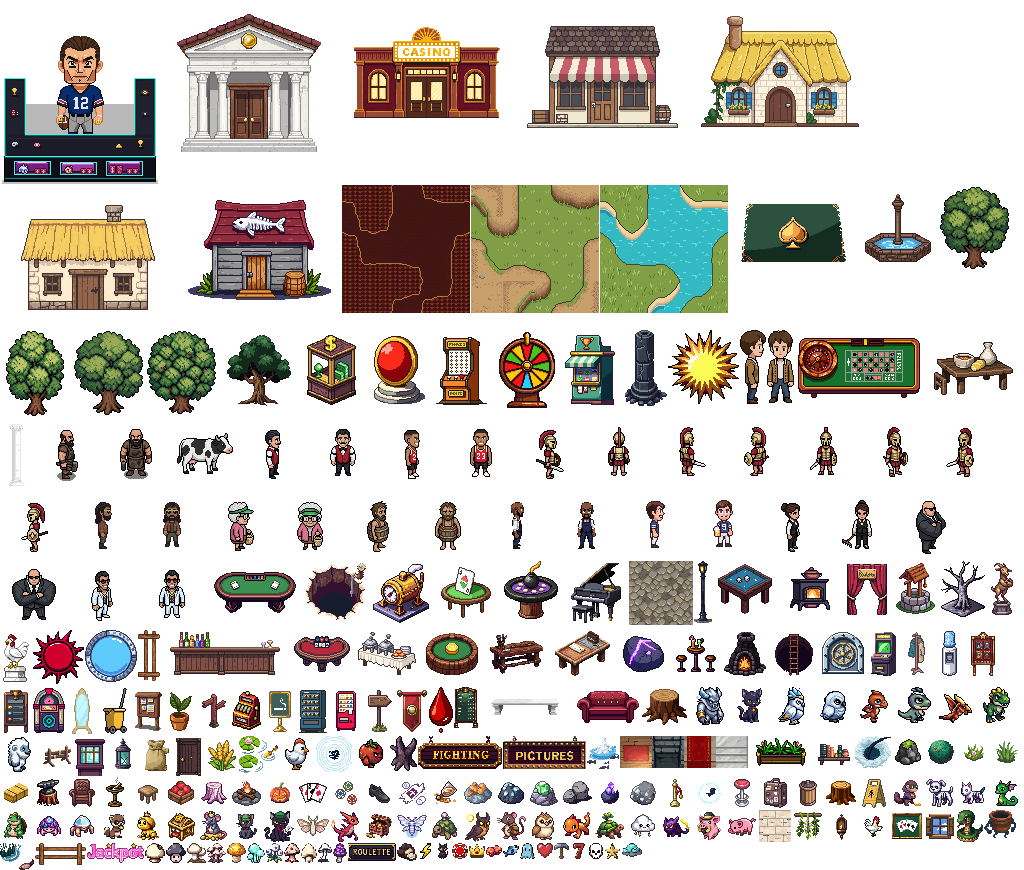
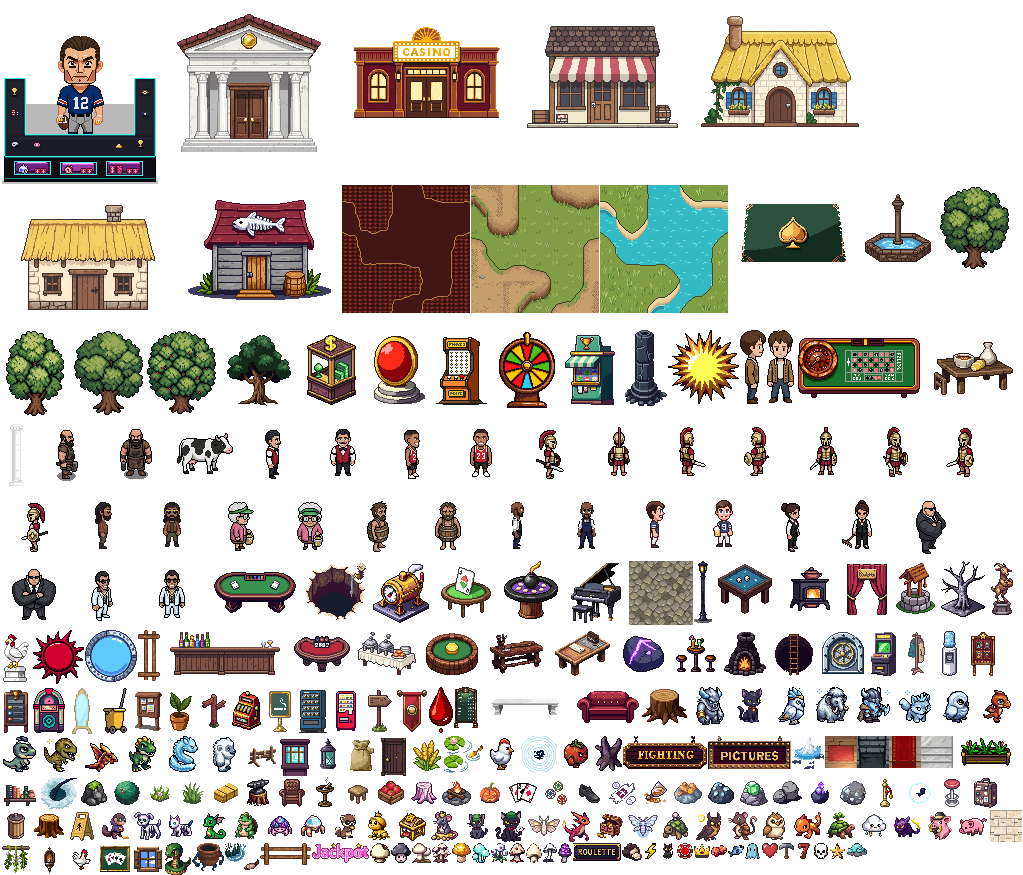
EastScape: the five boss pets' art (Rexling, Matriarch's Calf, Jarl's Hound, Wyrmling, Ice Imp)

diff --git a/eastscape.html b/eastscape.html
@@ -2613,7 +2613,7 @@ const ART_VER = { foundry_bg1: 5, foundry_bg2: 5,   /* (2026-09-27) the Foundry 
    because a crop added to CROPS should ask for its art without anybody remembering to type four more names —
    the content check then fails until that art exists, which is the right way round. */
 const CROP_ART = [...new Set(Object.keys(G.CROPS).map((k) => G.cropArt(k)))].flatMap((k) => [1, 2, 3, 4].map((n) => `crop_${k}_${n}`));   /* (2026-09-26) a seed crop draws its bloom's pictures */
-const ART_FILES = ["snowowl", "snowowl_i2", "snowowl_w1", "snowowl_w2", "snowowl_w3", "snowowl_w4", "snowowl_a1", "snowowl_a2", "snowowl_a3", "snowowl_a4", "frostwraith", "frostwraith_i2", "frostwraith_w1", "frostwraith_w2", "frostwraith_w3", "frostwraith_w4", "frostwraith_a1", "frostwraith_a2", "frostwraith_a3", "frostwraith_a4", "iceelemental", "iceelemental_i2", "iceelemental_w1", "iceelemental_w2", "iceelemental_w3", "iceelemental_w4", "iceelemental_a1", "iceelemental_a2", "iceelemental_a3", "iceelemental_a4", "frostjarl", "frostjarl_i2", "frostjarl_w1", "frostjarl_w2", "frostjarl_w3", "frostjarl_w4", "frostjarl_a1", "frostjarl_a2", "frostjarl_a3", "frostjarl_a4", "icewyrm", "icewyrm_i2", "icewyrm_w1", "icewyrm_w2", "icewyrm_w3", "icewyrm_w4", "icewyrm_a1", "icewyrm_a2", "icewyrm_a3", "icewyrm_a4",   /* (2026-09-30) the Frozen Reach's creatures (held) */ "pet_owlet", "pet_yeticub", "pet_blizzardowl", "pet_abominable",   /* its pets ride core */ "o_frostpine", "o_frostpine_stump", "o_rock_glacite",   /* (2026-09-30) the Frozen Reach's nodes (held) */ "raidchief", "raidchief_i2", "raidchief_w1", "raidchief_w2", "raidchief_w3", "raidchief_w4", "raidchief_a1", "raidchief_a2", "raidchief_a3", "raidchief_a4",   /* (2026-09-30) the Ice Man */ "frostwolf", "frostwolf_i2", "frostwolf_w1", "frostwolf_w2", "frostwolf_w3", "frostwolf_w4", "frostwolf_a1", "frostwolf_a2", "frostwolf_a3", "frostwolf_a4", "yeti", "yeti_i2", "yeti_w1", "yeti_w2", "yeti_w3", "yeti_w4", "yeti_a1", "yeti_a2", "yeti_a3", "yeti_a4", "frostgiant", "frostgiant_i2", "frostgiant_w1", "frostgiant_w2", "frostgiant_w3", "frostgiant_w4", "frostgiant_a1", "frostgiant_a2", "frostgiant_a3", "frostgiant_a4",   /* (2026-09-30) the Yard raid's raiders (the Frozen Reach's creatures); the Ice Man joins when drawn */ "fz_cliff_10x7", "fz_cliff_5x7", "fz_cliff_6x8", "fz_cliff_7x7", "fz_cliff_8x7", "fz_crystal1", "fz_crystal2", "fz_crystal3", "fz_floe1", "fz_floe2", "fz_floe3", "fz_floe4", "fz_pine1", "fz_pine2", "fz_rock1", "fz_rock2", "fz_statue", "t_iwater", "t_snow",   /* (2026-09-30) the Frozen Reach (held): shelves, floes, props, its snow ground; each map loads only its own */ "pv_bone1", "pv_bone2", "pv_cliff_10x7", "pv_cliff_5x7", "pv_cliff_6x7", "pv_cliff_6x8", "pv_cliff_7x7", "pv_cliff_8x7", "pv_cliff_9x7", "pv_crystal", "pv_fern1", "pv_fern2", "pv_fern3", "pv_lavarock", "pv_palm1", "pv_palm2", "pv_skeleton", "pv_skull", "pv_tarhole1", "pv_tarhole2", "pv_tent_green", "pv_tent_red", "pv_throne", "pv_totem", "pv_tusk_l", "pv_tusk_r", "pv_vent1", "pv_vent2", "pv_volcano", "caveman", "caveman_i2", "caveman_w1", "caveman_w2", "caveman_w3", "caveman_w4", "caveman_a1", "caveman_a2", "caveman_a3", "caveman_a4", "mammoth", "mammoth_i2", "mammoth_w1", "mammoth_w2", "mammoth_w3", "mammoth_w4", "mammoth_a1", "mammoth_a2", "mammoth_a3", "mammoth_a4", "matriarch", "matriarch_i2", "matriarch_w1", "matriarch_w2", "matriarch_w3", "matriarch_w4", "matriarch_a1", "matriarch_a2", "matriarch_a3", "matriarch_a4", "pterodactyl", "pterodactyl_i2", "pterodactyl_w1", "pterodactyl_w2", "pterodactyl_w3", "pterodactyl_w4", "pterodactyl_a1", "pterodactyl_a2", "pterodactyl_a3", "pterodactyl_a4", "raptor", "raptor_i2", "raptor_w1", "raptor_w2", "raptor_w3", "raptor_w4", "raptor_a1", "raptor_a2", "raptor_a3", "raptor_a4", "rex", "rex_i2", "rex_w1", "rex_w2", "rex_w3", "rex_w4", "rex_a1", "rex_a2", "rex_a3", "rex_a4", "sabretooth", "sabretooth_i2", "sabretooth_w1", "sabretooth_w2", "sabretooth_w3", "sabretooth_w4", "sabretooth_a1", "sabretooth_a2", "sabretooth_a3", "sabretooth_a4", "tarhorror", "tarhorror_i2", "tarhorror_w1", "tarhorror_w2", "tarhorror_w3", "tarhorror_w4", "tarhorror_a1", "tarhorror_a2", "tarhorror_a3", "tarhorror_a4", "o_cycad", "o_cycad_stump", "o_rock_fossil",   /* (2026-09-30) the Primeval Valley (held): its monsters, ledges, props and nodes; each map loads only its own (AREA_ART) */ "pet_raptor", "pet_ptero", "pet_tyrant", "pet_skyking",   /* its pets ride core, like every pet */ "wren_south", "wren_east", "morwenna_south", "morwenna_east", "o_rangerstall", "o_magestall",   /* (2026-09-29) the outfitters */ "t_cobble",   /* (2026-09-29) the Yard's cobbled road */ "o_gemsorter",   /* (2026-09-29) the Gem Sorter's bench */ "sal_south", "sal_east", "o_scrapbench",   /* (2026-09-28) World Projects: the ruins; a built stage is fetched on its own */   /* (2026-09-28) Sprocket Sal */ "o_projboard", "o_dockruin", "o_cannonruin", "o_cannon", "o_tableruin", "o_boiler",   /* (2026-09-28) World Projects */ "bronny_south", "bronny_east", "o_roadwork", "o_cones", "o_sawhorse", "o_lumber",   /* (2026-09-28) Bronny the Foreman */ "nestor_south", "nestor_east",   /* (2026-09-28) Nestor the Egg Man */ "bessemer_l1", "bessemer_l2", "bessemer_l3", "bessemer_l4", "bessemer_l5", "fd_chain_bg1", "fd_chain_bg2", "fd_danger", "fd_eye", "fd_gate_bg1", "fd_gate_bg2", "fd_gatefx", "fd_grove_bg1", "fd_grove_bg2", "fd_hall_bg1", "fd_hall_bg2", "fd_isle_bg1", "fd_isle_bg2", "fd_lava", "fd_maze_bg1", "fd_maze_bg2", "fd_t_ball", "fd_t_burn", "fd_t_crush", "fd_t_geyser", "fd_t_spikes", "fd_t_spit", "fd_t_volc", "fd_tumor", "fd_vortex",   /* (2026-09-27) the Foundry rebuilt */ "bw_d_barrel", "bw_d_barrel2", "bw_d_fishbarrel", "bw_d_skelbarrel", "bw_d_sandbarrel", "bw_d_crate", "bw_d_bigcrate", "bw_d_fishcrate", "bw_d_sandcrate", "bw_d_basket", "bw_d_fishbasket", "bw_d_barricade", "bw_d_chest", "bw_d_bones", "bw_d_skeleton", "bw_d_shells1", "bw_d_shells2", "bw_d_rope", "bw_d_coconut", "bw_d_fish", "bw_d_stranded", "bw_flag", "bw_banner", "bw_banner2", "bw_chesta", "bw_none",   /* (2026-09-27) the islands' clutter, flags, banners and the chest */ "bw_cabin_bg1", "bw_cabin_bg2", "bw_light_bg1", "bw_light_bg2", "bw_wreck_bg1", "bw_wreck_bg2", "bw_pier_bg1", "bw_pier_bg2", "bw_skull_bg1", "bw_skull_bg2", "bw_rowboat", "bw_boata", "bw_palm1", "bw_palm2", "bw_palm3", "bw_palm1a", "bw_palm2a", "bw_palm3a", "bw_rock_starfall", "bw_rock_eclipse", "bw_rock_nova", "bw_water",   /* (2026-09-27) the Boardwalk's islands */ "orchard_bg1", "orchard_bg2", "or_pine", "or_walnut", "wasp", "wasp_i2", "wasp_w1", "wasp_w2", "wasp_w3", "wasp_w4", "wasp_a1", "wasp_a2", "wasp_a3", "wasp_a4", "orchardorc", "orchardorc_i2", "orchardorc_w1", "orchardorc_w2", "orchardorc_w3", "orchardorc_w4", "orchardorc_a1", "orchardorc_a2", "orchardorc_a3", "orchardorc_a4", "orchardkeeper", "orchardkeeper_i2", "orchardkeeper_w1", "orchardkeeper_w2", "orchardkeeper_w3", "orchardkeeper_w4", "orchardkeeper_a1", "orchardkeeper_a2", "orchardkeeper_a3", "orchardkeeper_a4", "hedgething", "hedgething_i2", "hedgething_w1", "hedgething_w2", "hedgething_w3", "hedgething_w4", "hedgething_a1", "hedgething_a2", "hedgething_a3", "hedgething_a4", "gardener", "gardener_i2", "gardener_w1", "gardener_w2", "gardener_w3", "gardener_w4", "gardener_a1", "gardener_a2", "gardener_a3", "gardener_a4", "pomona_south", "pomona_east",   /* (2026-09-27) the Orchard Wall */ "foundry_bg1", "foundry_bg2", "o_blast", "fd_vein_eclipse", "fd_vein_nova", "fd_vein_singularity", "slaggolem", "slaggolem_i2", "slaggolem_w1", "slaggolem_w2", "slaggolem_w3", "slaggolem_w4", "slaggolem_a1", "slaggolem_a2", "slaggolem_a3", "slaggolem_a4", "furnaceimp", "furnaceimp_i2", "furnaceimp_w1", "furnaceimp_w2", "furnaceimp_w3", "furnaceimp_w4", "furnaceimp_a1", "furnaceimp_a2", "furnaceimp_a3", "furnaceimp_a4", "cinderelemental", "cinderelemental_i2", "cinderelemental_w1", "cinderelemental_w2", "cinderelemental_w3", "cinderelemental_w4", "cinderelemental_a1", "cinderelemental_a2", "cinderelemental_a3", "cinderelemental_a4", "bessemer", "bessemer_a1", "bessemer_a2", "bessemer_a3", "bessemer_a4", "bessemer_r1", "bessemer_r2", "bessemer_r3", "bessemer_r4", "basalt_south", "basalt_east",   /* (2026-09-27) the Foundry */ "boardwalk_bg1", "boardwalk_bg2", "gull", "gull_i2", "gull_w1", "gull_w2", "gull_w3", "gull_w4", "gull_a1", "gull_a2", "gull_a3", "gull_a4", "deckhand", "deckhand_i2", "deckhand_w1", "deckhand_w2", "deckhand_w3", "deckhand_w4", "deckhand_a1", "deckhand_a2", "deckhand_a3", "deckhand_a4", "clawhand", "clawhand_i2", "clawhand_w1", "clawhand_w2", "clawhand_w3", "clawhand_w4", "clawhand_a1", "clawhand_a2", "clawhand_a3", "clawhand_a4", "krakenarm", "krakenarm_i2", "krakenarm_w1", "krakenarm_w2", "krakenarm_w3", "krakenarm_w4", "krakenarm_a1", "krakenarm_a2", "krakenarm_a3", "krakenarm_a4", "captainclaw", "captainclaw_i2", "captainclaw_w1", "captainclaw_w2", "captainclaw_w3", "captainclaw_w4", "captainclaw_a1", "captainclaw_a2", "captainclaw_a3", "captainclaw_a4", "saltymeg_south", "saltymeg_east",   /* (2026-09-27) the Boardwalk */ "o_jbench",   /* (2026-09-27) the jeweller's bench, in the Yard */ "dp_bg1", "dp_bg2", "dp_gatebar", "dp_crys_r", "dp_crys_g", "dp_crys_t", "dp_crys_b", "o_rock_abyss_crystal", "dp_vein_eclipse", "dp_vein_nova", "potboy", "potboy_i2", "potboy_w1", "potboy_w2", "potboy_w3", "potboy_w4", "potboy_a1", "potboy_a2", "potboy_a3", "potboy_a4", "dgoblin", "dgoblin_i2", "dgoblin_w1", "dgoblin_w2", "dgoblin_w3", "dgoblin_w4", "dgoblin_a1", "dgoblin_a2", "dgoblin_a3", "dgoblin_a4", "dogre", "dogre_i2", "dogre_w1", "dogre_w2", "dogre_w3", "dogre_w4", "dogre_a1", "dogre_a2", "dogre_a3", "dogre_a4", "diron", "diron_i2", "diron_w1", "diron_w2", "diron_w3", "diron_w4", "diron_a1", "diron_a2", "diron_a3", "diron_a4", "deepwarden", "deepwarden_i2", "deepwarden_w1", "deepwarden_w2", "deepwarden_w3", "deepwarden_w4", "deepwarden_a1", "deepwarden_a2", "deepwarden_a3", "deepwarden_a4", "deepwarden_r1", "deepwarden_r2", "deepwarden_r3", "deepwarden_r4", "deepwarden_r5", "deepwarden_r6", "dwisp", "pickett_south", "pickett_east", "pet_potboy",   /* (2026-09-27) the Depths of the Mountain: its area sheet (pet_potboy rides core, like every pet) */ "fung_sporecap_4", "fung_buttoncap_4", "fung_oyster_4", "fung_puffball_4", "fung_bluemould_4", "fung_inkcap_4", "fung_bleedtooth_4", "fung_glowcap_4", "fung_ghostpipe_4", "fung_truffle_4", "fung_lionsmane_4", "fung_voidmorel_4", "fung_starcap_4", "t_crypt", "t_cryptwall", "o_fbed", "o_compost", "fung_spawn_1", "fung_spawn_2", "fung_sporecap_3", "fung_buttoncap_3", "fung_oyster_3", "fung_puffball_3", "fung_bluemould_3", "fung_inkcap_3", "fung_bleedtooth_3", "fung_glowcap_3", "fung_ghostpipe_3", "fung_truffle_3", "fung_lionsmane_3", "fung_voidmorel_3", "fung_starcap_3",   /* (2026-09-27) Fungiculture: the clusters ride core; the cellar's own (the rest of these) ride its area sheet. */   /* (2026-09-27) Fungiculture's wild clusters, on twelve maps, so they ride the startup sheet (13 small pictures) */ "nb_skull", "nb_crown", "nb_fish", "nb_dice", "nb_seven", "nb_cat", "nb_ghost", "nb_star", "nb_bolt", "nb_heart", "nb_pickaxe", "nb_chip",   /* (2026-09-27) the Store's name badges (G.NAME_ICONS), 16px, drawn before a name over heads; written out because the packer reads this list without the rules */ "pumpkinking", "pet_blackcat", "o_ghostlantern", "o_jack", "o_nightmarket", "hexa_south", "hexa_east",   /* (2026-09-27) the Long Night; the lantern and the jack stay in core, they stand on every map */ "t_wildg", "t_wildb", "t_wildw", "x_plateau", "x_column", "x_cave", "x_pillar", "x_rock1", "x_rock2", "x_rock3", "x_rock4", "x_rock5", "x_rock6", "x_rocks", "x_boulder1", "x_boulder2", "x_boulder3", "x_dead1", "x_dead2", "x_dead3", "x_dead4", "x_dead5", "x_pine1", "x_pine2", "x_pine3", "x_shrub1", "x_shrub2", "x_stump", "x_tuft1", "x_tuft2", "x_tuft3",
+const ART_FILES = ["pet_rexling", "pet_calf", "pet_jarlhound", "pet_wyrmling", "pet_iceimp",   /* (2026-09-30) the boss pets: they ride core, like every pet */ "snowowl", "snowowl_i2", "snowowl_w1", "snowowl_w2", "snowowl_w3", "snowowl_w4", "snowowl_a1", "snowowl_a2", "snowowl_a3", "snowowl_a4", "frostwraith", "frostwraith_i2", "frostwraith_w1", "frostwraith_w2", "frostwraith_w3", "frostwraith_w4", "frostwraith_a1", "frostwraith_a2", "frostwraith_a3", "frostwraith_a4", "iceelemental", "iceelemental_i2", "iceelemental_w1", "iceelemental_w2", "iceelemental_w3", "iceelemental_w4", "iceelemental_a1", "iceelemental_a2", "iceelemental_a3", "iceelemental_a4", "frostjarl", "frostjarl_i2", "frostjarl_w1", "frostjarl_w2", "frostjarl_w3", "frostjarl_w4", "frostjarl_a1", "frostjarl_a2", "frostjarl_a3", "frostjarl_a4", "icewyrm", "icewyrm_i2", "icewyrm_w1", "icewyrm_w2", "icewyrm_w3", "icewyrm_w4", "icewyrm_a1", "icewyrm_a2", "icewyrm_a3", "icewyrm_a4",   /* (2026-09-30) the Frozen Reach's creatures (held) */ "pet_owlet", "pet_yeticub", "pet_blizzardowl", "pet_abominable",   /* its pets ride core */ "o_frostpine", "o_frostpine_stump", "o_rock_glacite",   /* (2026-09-30) the Frozen Reach's nodes (held) */ "raidchief", "raidchief_i2", "raidchief_w1", "raidchief_w2", "raidchief_w3", "raidchief_w4", "raidchief_a1", "raidchief_a2", "raidchief_a3", "raidchief_a4",   /* (2026-09-30) the Ice Man */ "frostwolf", "frostwolf_i2", "frostwolf_w1", "frostwolf_w2", "frostwolf_w3", "frostwolf_w4", "frostwolf_a1", "frostwolf_a2", "frostwolf_a3", "frostwolf_a4", "yeti", "yeti_i2", "yeti_w1", "yeti_w2", "yeti_w3", "yeti_w4", "yeti_a1", "yeti_a2", "yeti_a3", "yeti_a4", "frostgiant", "frostgiant_i2", "frostgiant_w1", "frostgiant_w2", "frostgiant_w3", "frostgiant_w4", "frostgiant_a1", "frostgiant_a2", "frostgiant_a3", "frostgiant_a4",   /* (2026-09-30) the Yard raid's raiders (the Frozen Reach's creatures); the Ice Man joins when drawn */ "fz_cliff_10x7", "fz_cliff_5x7", "fz_cliff_6x8", "fz_cliff_7x7", "fz_cliff_8x7", "fz_crystal1", "fz_crystal2", "fz_crystal3", "fz_floe1", "fz_floe2", "fz_floe3", "fz_floe4", "fz_pine1", "fz_pine2", "fz_rock1", "fz_rock2", "fz_statue", "t_iwater", "t_snow",   /* (2026-09-30) the Frozen Reach (held): shelves, floes, props, its snow ground; each map loads only its own */ "pv_bone1", "pv_bone2", "pv_cliff_10x7", "pv_cliff_5x7", "pv_cliff_6x7", "pv_cliff_6x8", "pv_cliff_7x7", "pv_cliff_8x7", "pv_cliff_9x7", "pv_crystal", "pv_fern1", "pv_fern2", "pv_fern3", "pv_lavarock", "pv_palm1", "pv_palm2", "pv_skeleton", "pv_skull", "pv_tarhole1", "pv_tarhole2", "pv_tent_green", "pv_tent_red", "pv_throne", "pv_totem", "pv_tusk_l", "pv_tusk_r", "pv_vent1", "pv_vent2", "pv_volcano", "caveman", "caveman_i2", "caveman_w1", "caveman_w2", "caveman_w3", "caveman_w4", "caveman_a1", "caveman_a2", "caveman_a3", "caveman_a4", "mammoth", "mammoth_i2", "mammoth_w1", "mammoth_w2", "mammoth_w3", "mammoth_w4", "mammoth_a1", "mammoth_a2", "mammoth_a3", "mammoth_a4", "matriarch", "matriarch_i2", "matriarch_w1", "matriarch_w2", "matriarch_w3", "matriarch_w4", "matriarch_a1", "matriarch_a2", "matriarch_a3", "matriarch_a4", "pterodactyl", "pterodactyl_i2", "pterodactyl_w1", "pterodactyl_w2", "pterodactyl_w3", "pterodactyl_w4", "pterodactyl_a1", "pterodactyl_a2", "pterodactyl_a3", "pterodactyl_a4", "raptor", "raptor_i2", "raptor_w1", "raptor_w2", "raptor_w3", "raptor_w4", "raptor_a1", "raptor_a2", "raptor_a3", "raptor_a4", "rex", "rex_i2", "rex_w1", "rex_w2", "rex_w3", "rex_w4", "rex_a1", "rex_a2", "rex_a3", "rex_a4", "sabretooth", "sabretooth_i2", "sabretooth_w1", "sabretooth_w2", "sabretooth_w3", "sabretooth_w4", "sabretooth_a1", "sabretooth_a2", "sabretooth_a3", "sabretooth_a4", "tarhorror", "tarhorror_i2", "tarhorror_w1", "tarhorror_w2", "tarhorror_w3", "tarhorror_w4", "tarhorror_a1", "tarhorror_a2", "tarhorror_a3", "tarhorror_a4", "o_cycad", "o_cycad_stump", "o_rock_fossil",   /* (2026-09-30) the Primeval Valley (held): its monsters, ledges, props and nodes; each map loads only its own (AREA_ART) */ "pet_raptor", "pet_ptero", "pet_tyrant", "pet_skyking",   /* its pets ride core, like every pet */ "wren_south", "wren_east", "morwenna_south", "morwenna_east", "o_rangerstall", "o_magestall",   /* (2026-09-29) the outfitters */ "t_cobble",   /* (2026-09-29) the Yard's cobbled road */ "o_gemsorter",   /* (2026-09-29) the Gem Sorter's bench */ "sal_south", "sal_east", "o_scrapbench",   /* (2026-09-28) World Projects: the ruins; a built stage is fetched on its own */   /* (2026-09-28) Sprocket Sal */ "o_projboard", "o_dockruin", "o_cannonruin", "o_cannon", "o_tableruin", "o_boiler",   /* (2026-09-28) World Projects */ "bronny_south", "bronny_east", "o_roadwork", "o_cones", "o_sawhorse", "o_lumber",   /* (2026-09-28) Bronny the Foreman */ "nestor_south", "nestor_east",   /* (2026-09-28) Nestor the Egg Man */ "bessemer_l1", "bessemer_l2", "bessemer_l3", "bessemer_l4", "bessemer_l5", "fd_chain_bg1", "fd_chain_bg2", "fd_danger", "fd_eye", "fd_gate_bg1", "fd_gate_bg2", "fd_gatefx", "fd_grove_bg1", "fd_grove_bg2", "fd_hall_bg1", "fd_hall_bg2", "fd_isle_bg1", "fd_isle_bg2", "fd_lava", "fd_maze_bg1", "fd_maze_bg2", "fd_t_ball", "fd_t_burn", "fd_t_crush", "fd_t_geyser", "fd_t_spikes", "fd_t_spit", "fd_t_volc", "fd_tumor", "fd_vortex",   /* (2026-09-27) the Foundry rebuilt */ "bw_d_barrel", "bw_d_barrel2", "bw_d_fishbarrel", "bw_d_skelbarrel", "bw_d_sandbarrel", "bw_d_crate", "bw_d_bigcrate", "bw_d_fishcrate", "bw_d_sandcrate", "bw_d_basket", "bw_d_fishbasket", "bw_d_barricade", "bw_d_chest", "bw_d_bones", "bw_d_skeleton", "bw_d_shells1", "bw_d_shells2", "bw_d_rope", "bw_d_coconut", "bw_d_fish", "bw_d_stranded", "bw_flag", "bw_banner", "bw_banner2", "bw_chesta", "bw_none",   /* (2026-09-27) the islands' clutter, flags, banners and the chest */ "bw_cabin_bg1", "bw_cabin_bg2", "bw_light_bg1", "bw_light_bg2", "bw_wreck_bg1", "bw_wreck_bg2", "bw_pier_bg1", "bw_pier_bg2", "bw_skull_bg1", "bw_skull_bg2", "bw_rowboat", "bw_boata", "bw_palm1", "bw_palm2", "bw_palm3", "bw_palm1a", "bw_palm2a", "bw_palm3a", "bw_rock_starfall", "bw_rock_eclipse", "bw_rock_nova", "bw_water",   /* (2026-09-27) the Boardwalk's islands */ "orchard_bg1", "orchard_bg2", "or_pine", "or_walnut", "wasp", "wasp_i2", "wasp_w1", "wasp_w2", "wasp_w3", "wasp_w4", "wasp_a1", "wasp_a2", "wasp_a3", "wasp_a4", "orchardorc", "orchardorc_i2", "orchardorc_w1", "orchardorc_w2", "orchardorc_w3", "orchardorc_w4", "orchardorc_a1", "orchardorc_a2", "orchardorc_a3", "orchardorc_a4", "orchardkeeper", "orchardkeeper_i2", "orchardkeeper_w1", "orchardkeeper_w2", "orchardkeeper_w3", "orchardkeeper_w4", "orchardkeeper_a1", "orchardkeeper_a2", "orchardkeeper_a3", "orchardkeeper_a4", "hedgething", "hedgething_i2", "hedgething_w1", "hedgething_w2", "hedgething_w3", "hedgething_w4", "hedgething_a1", "hedgething_a2", "hedgething_a3", "hedgething_a4", "gardener", "gardener_i2", "gardener_w1", "gardener_w2", "gardener_w3", "gardener_w4", "gardener_a1", "gardener_a2", "gardener_a3", "gardener_a4", "pomona_south", "pomona_east",   /* (2026-09-27) the Orchard Wall */ "foundry_bg1", "foundry_bg2", "o_blast", "fd_vein_eclipse", "fd_vein_nova", "fd_vein_singularity", "slaggolem", "slaggolem_i2", "slaggolem_w1", "slaggolem_w2", "slaggolem_w3", "slaggolem_w4", "slaggolem_a1", "slaggolem_a2", "slaggolem_a3", "slaggolem_a4", "furnaceimp", "furnaceimp_i2", "furnaceimp_w1", "furnaceimp_w2", "furnaceimp_w3", "furnaceimp_w4", "furnaceimp_a1", "furnaceimp_a2", "furnaceimp_a3", "furnaceimp_a4", "cinderelemental", "cinderelemental_i2", "cinderelemental_w1", "cinderelemental_w2", "cinderelemental_w3", "cinderelemental_w4", "cinderelemental_a1", "cinderelemental_a2", "cinderelemental_a3", "cinderelemental_a4", "bessemer", "bessemer_a1", "bessemer_a2", "bessemer_a3", "bessemer_a4", "bessemer_r1", "bessemer_r2", "bessemer_r3", "bessemer_r4", "basalt_south", "basalt_east",   /* (2026-09-27) the Foundry */ "boardwalk_bg1", "boardwalk_bg2", "gull", "gull_i2", "gull_w1", "gull_w2", "gull_w3", "gull_w4", "gull_a1", "gull_a2", "gull_a3", "gull_a4", "deckhand", "deckhand_i2", "deckhand_w1", "deckhand_w2", "deckhand_w3", "deckhand_w4", "deckhand_a1", "deckhand_a2", "deckhand_a3", "deckhand_a4", "clawhand", "clawhand_i2", "clawhand_w1", "clawhand_w2", "clawhand_w3", "clawhand_w4", "clawhand_a1", "clawhand_a2", "clawhand_a3", "clawhand_a4", "krakenarm", "krakenarm_i2", "krakenarm_w1", "krakenarm_w2", "krakenarm_w3", "krakenarm_w4", "krakenarm_a1", "krakenarm_a2", "krakenarm_a3", "krakenarm_a4", "captainclaw", "captainclaw_i2", "captainclaw_w1", "captainclaw_w2", "captainclaw_w3", "captainclaw_w4", "captainclaw_a1", "captainclaw_a2", "captainclaw_a3", "captainclaw_a4", "saltymeg_south", "saltymeg_east",   /* (2026-09-27) the Boardwalk */ "o_jbench",   /* (2026-09-27) the jeweller's bench, in the Yard */ "dp_bg1", "dp_bg2", "dp_gatebar", "dp_crys_r", "dp_crys_g", "dp_crys_t", "dp_crys_b", "o_rock_abyss_crystal", "dp_vein_eclipse", "dp_vein_nova", "potboy", "potboy_i2", "potboy_w1", "potboy_w2", "potboy_w3", "potboy_w4", "potboy_a1", "potboy_a2", "potboy_a3", "potboy_a4", "dgoblin", "dgoblin_i2", "dgoblin_w1", "dgoblin_w2", "dgoblin_w3", "dgoblin_w4", "dgoblin_a1", "dgoblin_a2", "dgoblin_a3", "dgoblin_a4", "dogre", "dogre_i2", "dogre_w1", "dogre_w2", "dogre_w3", "dogre_w4", "dogre_a1", "dogre_a2", "dogre_a3", "dogre_a4", "diron", "diron_i2", "diron_w1", "diron_w2", "diron_w3", "diron_w4", "diron_a1", "diron_a2", "diron_a3", "diron_a4", "deepwarden", "deepwarden_i2", "deepwarden_w1", "deepwarden_w2", "deepwarden_w3", "deepwarden_w4", "deepwarden_a1", "deepwarden_a2", "deepwarden_a3", "deepwarden_a4", "deepwarden_r1", "deepwarden_r2", "deepwarden_r3", "deepwarden_r4", "deepwarden_r5", "deepwarden_r6", "dwisp", "pickett_south", "pickett_east", "pet_potboy",   /* (2026-09-27) the Depths of the Mountain: its area sheet (pet_potboy rides core, like every pet) */ "fung_sporecap_4", "fung_buttoncap_4", "fung_oyster_4", "fung_puffball_4", "fung_bluemould_4", "fung_inkcap_4", "fung_bleedtooth_4", "fung_glowcap_4", "fung_ghostpipe_4", "fung_truffle_4", "fung_lionsmane_4", "fung_voidmorel_4", "fung_starcap_4", "t_crypt", "t_cryptwall", "o_fbed", "o_compost", "fung_spawn_1", "fung_spawn_2", "fung_sporecap_3", "fung_buttoncap_3", "fung_oyster_3", "fung_puffball_3", "fung_bluemould_3", "fung_inkcap_3", "fung_bleedtooth_3", "fung_glowcap_3", "fung_ghostpipe_3", "fung_truffle_3", "fung_lionsmane_3", "fung_voidmorel_3", "fung_starcap_3",   /* (2026-09-27) Fungiculture: the clusters ride core; the cellar's own (the rest of these) ride its area sheet. */   /* (2026-09-27) Fungiculture's wild clusters, on twelve maps, so they ride the startup sheet (13 small pictures) */ "nb_skull", "nb_crown", "nb_fish", "nb_dice", "nb_seven", "nb_cat", "nb_ghost", "nb_star", "nb_bolt", "nb_heart", "nb_pickaxe", "nb_chip",   /* (2026-09-27) the Store's name badges (G.NAME_ICONS), 16px, drawn before a name over heads; written out because the packer reads this list without the rules */ "pumpkinking", "pet_blackcat", "o_ghostlantern", "o_jack", "o_nightmarket", "hexa_south", "hexa_east",   /* (2026-09-27) the Long Night; the lantern and the jack stay in core, they stand on every map */ "t_wildg", "t_wildb", "t_wildw", "x_plateau", "x_column", "x_cave", "x_pillar", "x_rock1", "x_rock2", "x_rock3", "x_rock4", "x_rock5", "x_rock6", "x_rocks", "x_boulder1", "x_boulder2", "x_boulder3", "x_dead1", "x_dead2", "x_dead3", "x_dead4", "x_dead5", "x_pine1", "x_pine2", "x_pine3", "x_shrub1", "x_shrub2", "x_stump", "x_tuft1", "x_tuft2", "x_tuft3",
   "t_deepg", "t_deepb", "t_deepw", "d_plateau", "d_column", "d_cave", "d_pillar", "d_rock1", "d_rock2", "d_rock3", "d_rock4", "d_rock5", "d_rock6", "d_rock7", "d_rock8", "d_slab", "d_boulder1", "d_boulder2", "d_boulder3", "d_dead1", "d_dead2", "d_dead3", "d_root1", "d_root2", "d_root3", "d_log1", "d_log2", "d_stump1", "d_stump2", "d_burnt", "d_coal1", "d_coal2", "d_tuft", "weaver", "marrowhound", "grimlich", "o_gallowsoak", "mudge_south", "mudge_east", "morrow_south", "morrow_east", "zephyr_south", "zephyr_east", "rashid_south", "rashid_east", "volta_south", "volta_east", "auditor_south", "auditor_east", "grimm_south", "grimm_east", "a_wfall_w", "a_wfall_d", "a_surface", "a_shine", "a_lava", "a_lavab", "a_steam",   /* (2026-09-26) the Wilderness (x_) and the Deep Wild (d_): tools/eastscape-wild-art.mjs, from Szadi art's RPG Fantasy Worlds sets; every one is claimed by AREA_ART.wild or .deep below, so none of it is in core */
   "pet_pocketowl", "pet_mossback", "pet_trufflepig", "pet_stormling", "pet_salamander", "pet_ferret", "pet_crystalcrab", "pet_mimic", "pet_oracleowl", "pet_shellback", "pet_trufflebaron", "pet_tempest", "pet_magmadrake", "pet_banditking", "pet_diamondcrab", "pet_grandmimic", "pet_cerberpup", "pet_hoarder", "pet_goldentoad", "pet_moonmoth", "pet_housewins", "pet_coilwyrm",   /* (2026-09-27) Breeding's pets */ "o_altar_arcane", "o_altar_fire", "o_altar_frost", "o_altar_storm", "o_altar_void", "o_altar_sun", "o_altar_nexus",   /* (2026-09-26) the seven altars: each is deferred to its own area in AREA_ART */ "o_fletcher", "o_wildbench",   /* (2026-09-29) the Wild Bench, deferred to the Wilderness */   /* (2026-09-25) the fletching table in the Yard */ "t_dock", ...CROP_ART, "o_yardtree", "o_yardtree_stump", "o_tower", "t_doors", "fx_hit", "fx_crit", "fx_miss", "fx_bleed", "vince_south", "vince_east", "casino", "rony_south", "rony_east", "o_bomkiosk", "t_pit", "o_fightboard", "o_hsboard", "o_fameboard", "o_ringbell", "o_ringpost", "o_mirror", "o_rrtable", "o_barcart", "kellz_south", "kellz_east", "livia_south", "livia_east", "gaius_south", "gaius_east", "aurelia_south", "aurelia_east", "arbino_south", "arbino_east", "vince_south", "vince_east", "sterling_south", "sterling_east", "o_buffet", "o_l_chips", "o_l_cards", "o_l_spill", "o_l_slips", "o_wetfloor", "o_mopbucket", "o_coatrack", "o_suitcase", "o_l_shoe", "o_soda", "o_snacks", "o_stool", "o_armchair", "o_ashtray", "o_smokesign", "o_trashcan", "o_cooler", "o_planter", "o_cashier", "o_hilo", "o_mines", "o_plinko", "o_scratch", "o_pokertable", "o_blackjack", "o_coinstatue", "o_ropepost", "o_cocktail", "o_jukebox", "o_oddsboard", "o_wildladder", "barker_south", "barker_east", "o_duckpond", "o_banner", "o_banner2", "o_archway", "o_wagon", "o_cagebarH", "o_cagebarV", "o_turnstile", "o_bloodpool", "o_knives", "o_meathook", "pinhead", "tripled", "fatlady", "strongman", "grinner", "o_bigtop", "o_funhouse", "o_balloonpop", "o_shootgallery", "o_whackamole", "o_ticketbooth", "o_sidetent", "o_haybale", "o_carnlitter", "t_sawdust", "t_dwater", "critic", "o_railH", "o_railV", "o_railgate", "o_mausoleum", "pet_bonepup", "pet_packrat", "pet_cointoad", "pet_lanternmoth", "pet_housecat", "pet_coilling",   /* (2026-09-24) the Pyramid’s pet was in PETS and had a picture on disk and was in NEITHER of these two lists — its icon drew an empty box AND an equipped one would have walked around invisible. Every pet goes in both, drop or no drop. */ "o_prizewheel", "o_piano", "o_atm", "wall_neon", "wall_painting1", "wall_painting2", "pete_south", "pete_east", "nana_south", "nana_east", "randy_south", "randy_east", "wendell_south", "wendell_east", "ronde_south", "ronde_east", "t_casino", "t_roulette", "rug_casino", "rouge_south", "rouge_east", "dex_south", "dex_east", "dookie_south", "dookie_east", "t_dirt", "t_brick", "o_fencepost", "o_crates", "o_lamppost", "o_sacks", "o_handcart", "t_track", "o_gateframe", "o_gatebars", "o_agilend", "o_trailer", "o_wreck", "o_tyres", "o_dumpster", "o_rock_slagstone", "o_rustpine", "o_bogwood", "junkdog", "possum", "scrapper", "gator", "junkking", "darla_south", "darla_east", "t_water", "t_gwater", "t_gpath", "t_csky", "t_cpath", "farmhouse", "hut", "well", "tree", "hay", "wheat", "cow", "chicken", "hole",
   ...["south", "south-east", "east", "north-east", "north", "north-west", "west", "south-west"].flatMap((d) => ["hero_" + d, "legend_" + d]),   // (hero_tiro_*, the old tunic, left the startup list 2026-09-20: nobody wears it now that everyone has a look)
@@ -2683,7 +2683,7 @@ function registerArt(k, im) {   // `im` is a loaded Image, or a canvas the page 
    fetches the sheet ONCE, cuts every picture in it into its own small canvas and registers them all, so the rest of the page
    never knows. A picture in no sheet, or whose sheet won't load, is fetched by itself exactly as before (loadOne), so new art
    works before it is packed. PACKS_V is packs.json's ?v= and is bumped by the pack tool, never by hand. */
-const PACKS_V = 151;
+const PACKS_V = 152;
 const PACK_DIR = "/v3/assets/img/glad/packs/", packOf = new Map(), packJobs = new Map(); let PACKS = null;
 const packsReady = fetch(`${PACK_DIR}packs.json?v=${PACKS_V}`).then((r) => (r.ok ? r.json() : null)).then((j) => { if (!j || typeof j !== "object") return; PACKS = j; for (const [name, p] of Object.entries(j)) for (const k of Object.keys(p.keys || {})) if (!packOf.has(k)) packOf.set(k, name); }).catch(() => { /* no sheets: every picture comes on its own */ });
 const loadPack = (name) => packJobs.get(name) || packJobs.set(name, new Promise((res) => {
@@ -2703,7 +2703,7 @@ const loadOne = (k) => new Promise((res) => {
 /* art that only one area needs waits until you go there (or next door to it). Everything else is the core set,
    loaded at startup. A new area's pictures go in its list here; tools/eastscape-budget.mjs measures both halves. */
 const WILD_ART = ["t_wdirt", "t_wwater", "deadtree", "w_tree", "snag", "w_bush", "w_boulder", "grimstone", "gravestone", "skeleton", "o_gravestone", "o_skeleton", "rope", "cagesign", "gnasher", "taxwraith", "chandelier", "revenant"];
-const CASINO_ART = ["pet_owlet", "pet_yeticub", "pet_blizzardowl", "pet_abominable",   /* (2026-09-30) the Frozen Reach's pets */ "o_projboard", "o_tableruin", "o_boiler",   /* (2026-09-28) the New Table */ "pet_raptor", "pet_ptero", "pet_tyrant", "pet_skyking",   /* (2026-09-30) the Primeval Valley's pets */ "pet_potboy", "pet_pocketowl", "pet_mossback", "pet_trufflepig", "pet_stormling", "pet_salamander", "pet_ferret", "pet_crystalcrab", "pet_mimic", "pet_oracleowl", "pet_shellback", "pet_trufflebaron", "pet_tempest", "pet_magmadrake", "pet_banditking", "pet_diamondcrab", "pet_grandmimic", "pet_cerberpup", "pet_hoarder", "pet_goldentoad", "pet_moonmoth", "pet_housewins", "pet_coilwyrm", "pet_blackcat", "rony_south", "rony_east", "o_bomkiosk", "o_mirror", "kellz_south", "kellz_east", "o_buffet", "o_l_chips", "o_l_cards", "o_l_spill", "o_l_slips", "o_wetfloor", "o_mopbucket", "o_coatrack", "o_suitcase", "o_l_shoe", "o_soda", "o_snacks", "o_stool", "o_armchair", "o_ashtray", "o_smokesign", "o_trashcan", "o_cooler", "o_planter", "o_cashier", "o_hilo", "o_mines", "o_plinko", "o_scratch", "t_casino", "rug_casino", "dex_south", "dex_east", "dookie_south", "dookie_east", "o_slots", "o_cointable", "o_dicetable", "o_bar", "o_sofa", "o_walldoor", "o_roulsign", "o_fightsign", "o_picsign", "o_pokertable", "o_blackjack", "o_coinstatue", "o_ropepost", "o_cocktail", "o_jukebox", "o_oddsboard", "o_wildladder", "pet_bonepup", "pet_packrat", "pet_cointoad", "pet_lanternmoth", "pet_housecat", "pet_coilling", "o_prizewheel", "o_piano", "o_atm", "wall_neon", "wall_painting1", "wall_painting2", "pete_south", "pete_east", "nana_south", "nana_east", "randy_south", "randy_east", "wendell_south", "wendell_east", "ronde_south", "ronde_east"];
+const CASINO_ART = ["pet_rexling", "pet_calf", "pet_jarlhound", "pet_wyrmling", "pet_iceimp",   /* (2026-09-30) the boss pets */ "pet_owlet", "pet_yeticub", "pet_blizzardowl", "pet_abominable",   /* (2026-09-30) the Frozen Reach's pets */ "o_projboard", "o_tableruin", "o_boiler",   /* (2026-09-28) the New Table */ "pet_raptor", "pet_ptero", "pet_tyrant", "pet_skyking",   /* (2026-09-30) the Primeval Valley's pets */ "pet_potboy", "pet_pocketowl", "pet_mossback", "pet_trufflepig", "pet_stormling", "pet_salamander", "pet_ferret", "pet_crystalcrab", "pet_mimic", "pet_oracleowl", "pet_shellback", "pet_trufflebaron", "pet_tempest", "pet_magmadrake", "pet_banditking", "pet_diamondcrab", "pet_grandmimic", "pet_cerberpup", "pet_hoarder", "pet_goldentoad", "pet_moonmoth", "pet_housewins", "pet_coilwyrm", "pet_blackcat", "rony_south", "rony_east", "o_bomkiosk", "o_mirror", "kellz_south", "kellz_east", "o_buffet", "o_l_chips", "o_l_cards", "o_l_spill", "o_l_slips", "o_wetfloor", "o_mopbucket", "o_coatrack", "o_suitcase", "o_l_shoe", "o_soda", "o_snacks", "o_stool", "o_armchair", "o_ashtray", "o_smokesign", "o_trashcan", "o_cooler", "o_planter", "o_cashier", "o_hilo", "o_mines", "o_plinko", "o_scratch", "t_casino", "rug_casino", "dex_south", "dex_east", "dookie_south", "dookie_east", "o_slots", "o_cointable", "o_dicetable", "o_bar", "o_sofa", "o_walldoor", "o_roulsign", "o_fightsign", "o_picsign", "o_pokertable", "o_blackjack", "o_coinstatue", "o_ropepost", "o_cocktail", "o_jukebox", "o_oddsboard", "o_wildladder", "pet_bonepup", "pet_packrat", "pet_cointoad", "pet_lanternmoth", "pet_housecat", "pet_coilling", "o_prizewheel", "o_piano", "o_atm", "wall_neon", "wall_painting1", "wall_painting2", "pete_south", "pete_east", "nana_south", "nana_east", "randy_south", "randy_east", "wendell_south", "wendell_east", "ronde_south", "ronde_east"];
 /* ISLE_ART is a flat literal and CROP_ART is spread in beside it at each use, rather than folded in here,
    because tools/eastscape-pack.mjs reads these lists out of this file by grabbing the text between brackets —
    it can eval an array, not an expression. The packer derives the crop half from what is on disk. */
